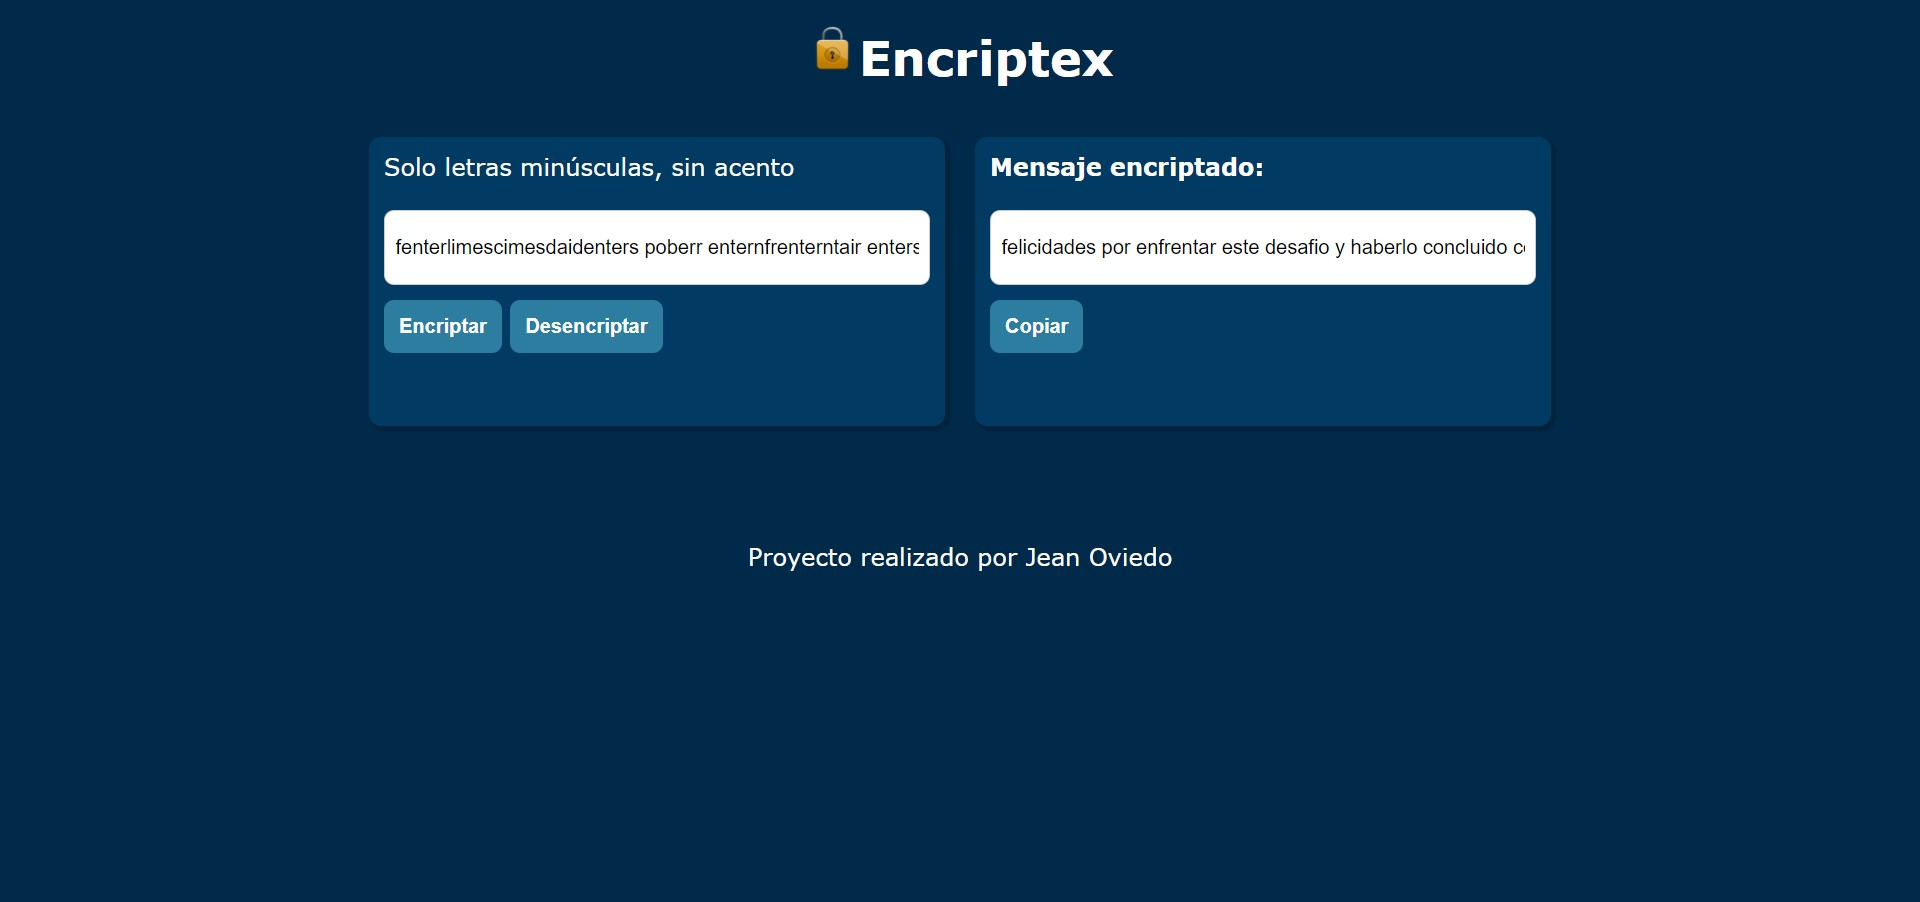
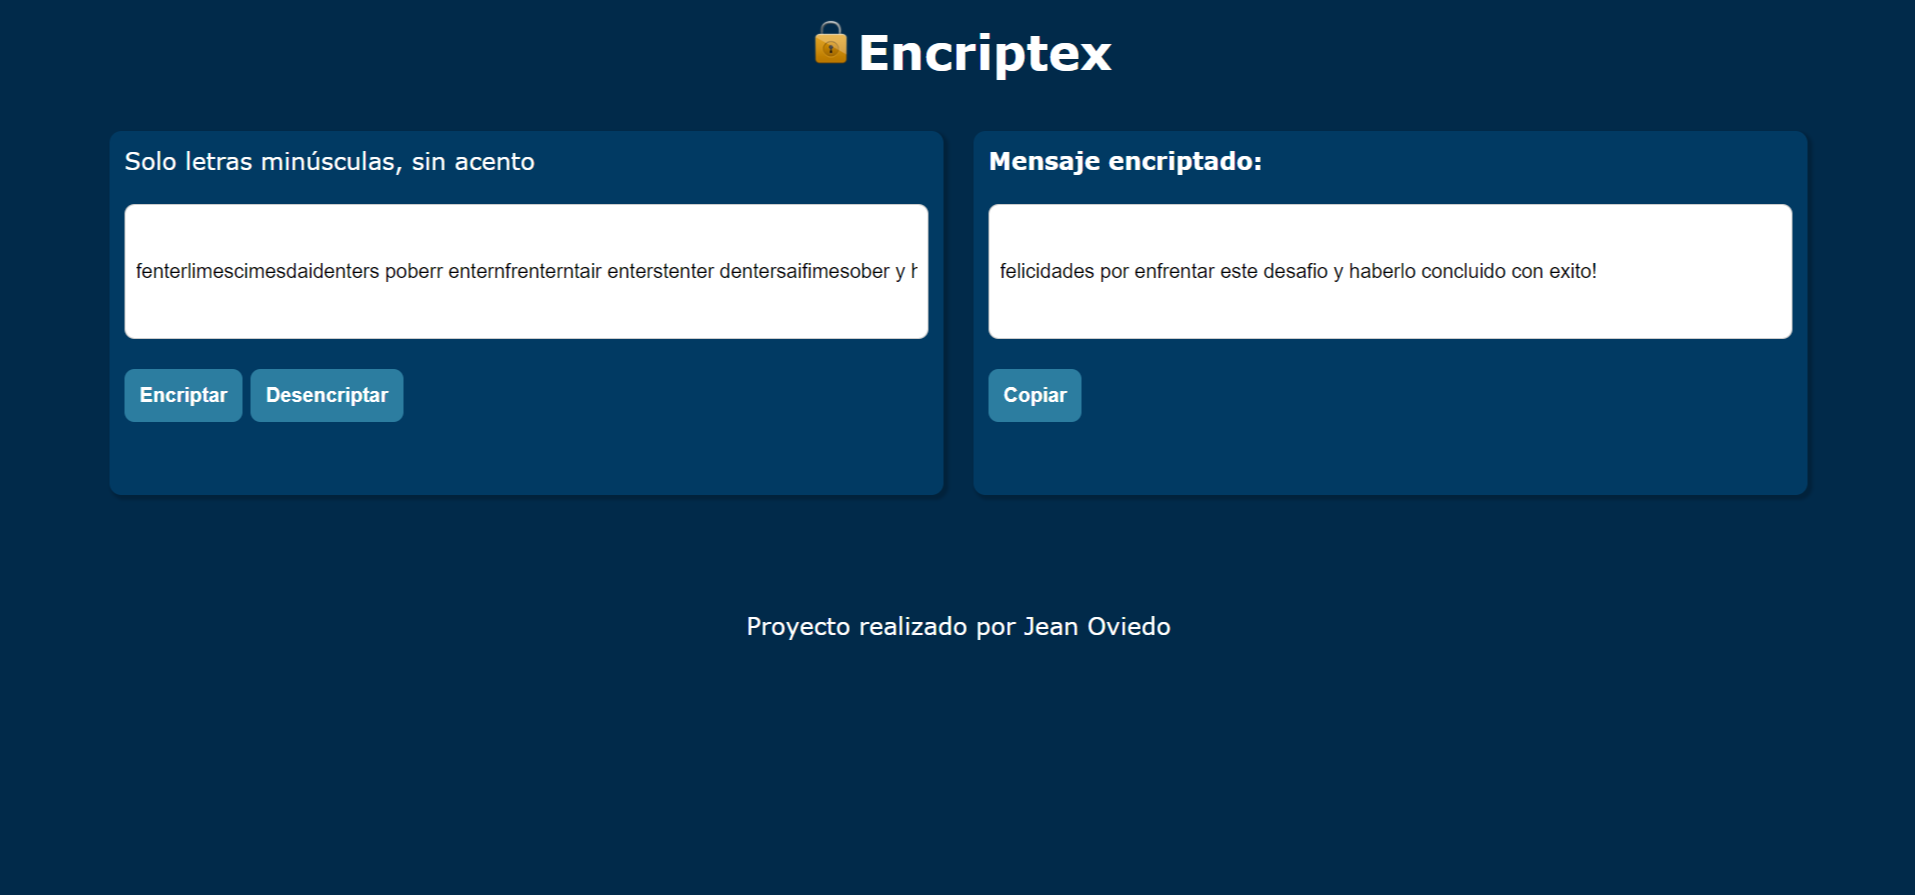
Update capture

diff --git a/style.css b/style.css
@@ -80,10 +80,23 @@ body {
     display: block;
   }
 
+  .img {
+    height: 27px;
+    width: 27px;
+  }
+
   .main {
     width: 80vw;
     margin: auto;
     display: block;
     justify-content: center;
+  }
+  .titulo {
+    padding-top: 15px;
+    width: 30vw;
+    font-size: 20px;
+    margin: auto;
+    text-align: center;
+    display: flex;
   }
 }

diff --git a/index.html b/index.html
@@ -4,7 +4,7 @@
   <meta charset="UTF-8">
   <meta http-equiv="X-UA-Compatible" content="IE=edge">
   <meta name="viewport" content="width=device-width, initial-scale=1.0">
-  <title>Document</title>
+  <title>Encriptex</title>
   <link rel="stylesheet" href="style.css">
 </head>
 <body>
